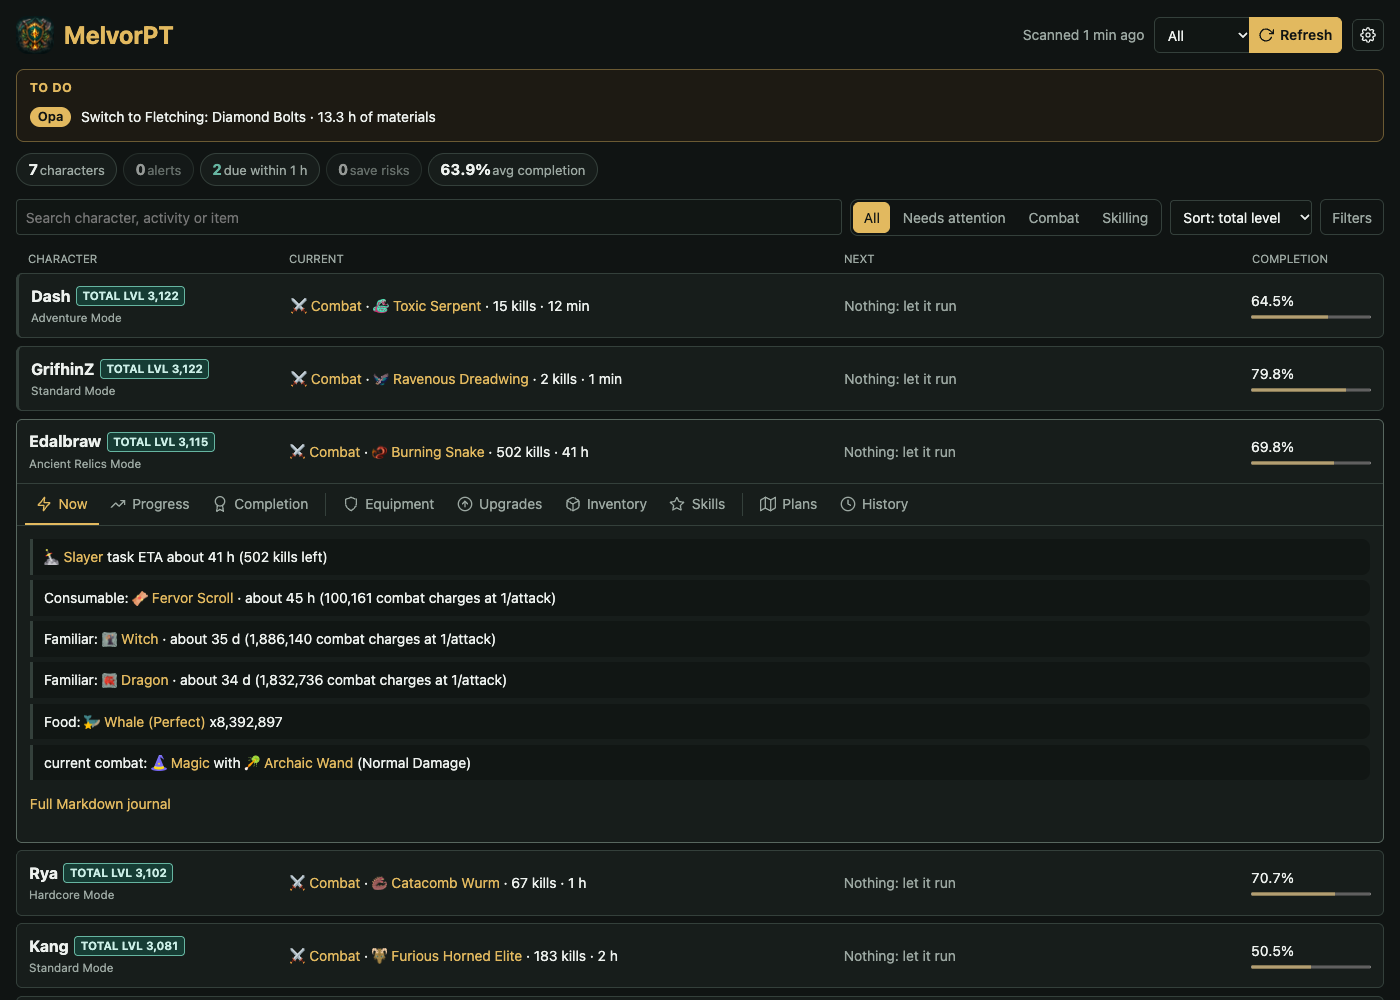
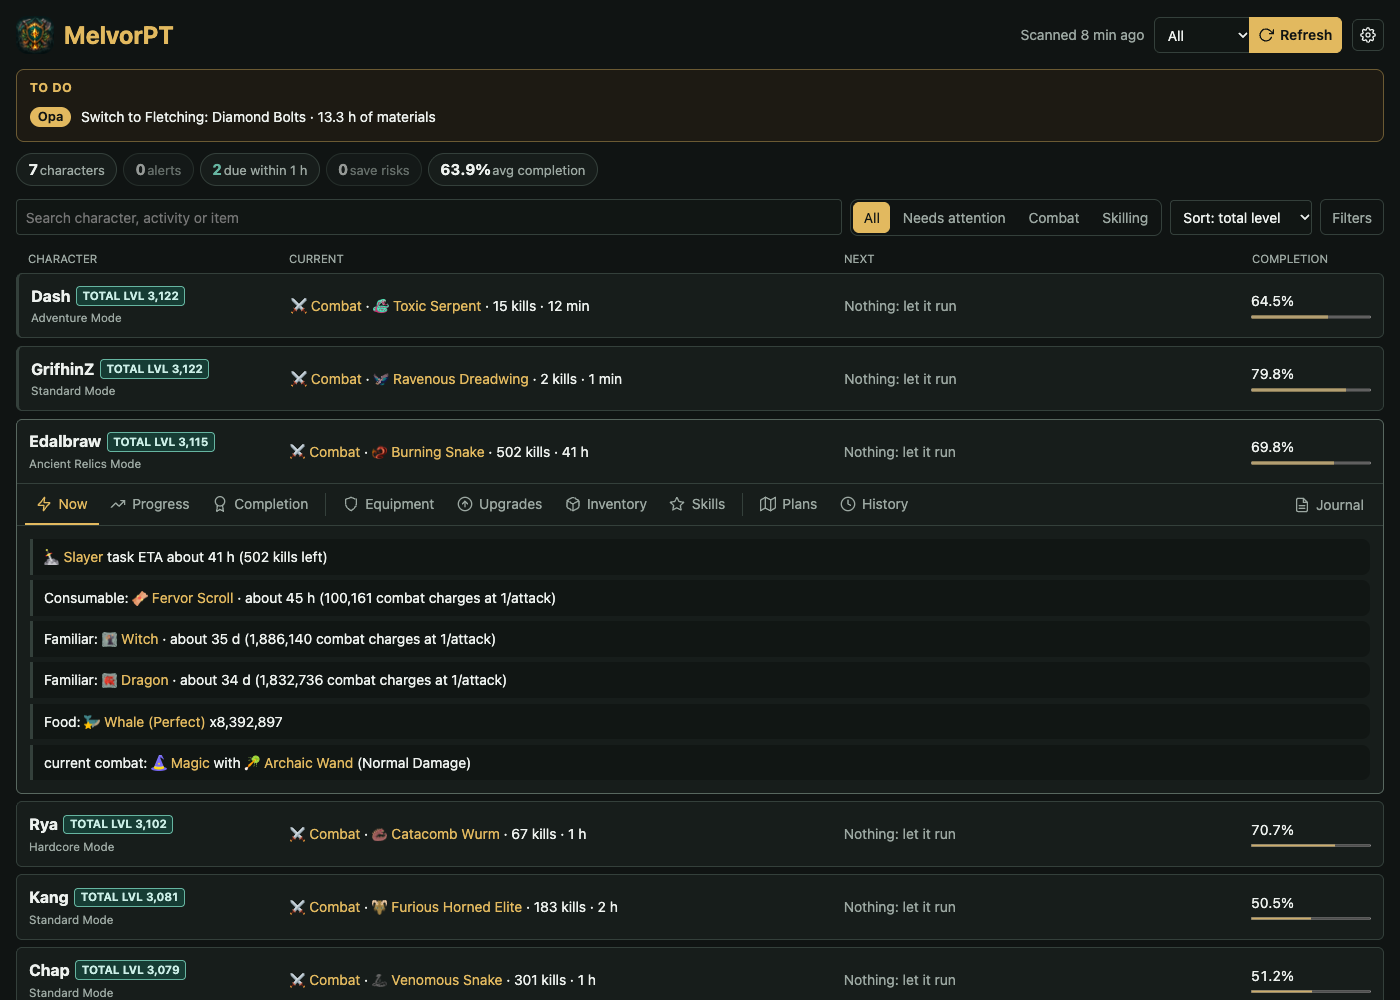
feat(dashboard): Journal link in the tab bar, tighter panel bottom
The Markdown journal opens from a Journal entry at the end of the tab bar (icon only on mobile) instead of a footer link,
which removes the empty band under every panel. Mobile cards no longer clamp the Current text. README screenshot refreshed.

Changed region(s): [[0.0, 0.775, 0.9829, 1.0], [0.9214, 0.496, 0.9829, 0.527], [0.7371, 0.031, 0.7679, 0.062]]

diff --git a/melvor-report.js b/melvor-report.js
@@ -1911,7 +1911,7 @@ button:focus-visible, input:focus-visible, select:focus-visible, summary:focus-v
 .badge.info, .badge.ok { color: #ccefe7; border-color: var(--teal); background: #163c34; }
 .priority-critical { border-left: 3px solid var(--danger); }
 .priority-high { border-left: 3px solid var(--line); }
-.character-body { border-top: 1px solid var(--line); padding: .7rem .8rem .85rem; }
+.character-body { border-top: 1px solid var(--line); padding: .7rem .8rem .8rem; }
 .tabs { display: flex; gap: .35rem; overflow-x: auto; margin-bottom: .7rem; }
 .tabs button { width: auto; padding: .35rem .65rem; white-space: nowrap; }
 .tabs button[aria-selected="true"] { color: #101413; border-color: var(--accent); background: var(--accent); }
@@ -1919,6 +1919,8 @@ button:focus-visible, input:focus-visible, select:focus-visible, summary:focus-v
 .tab-switch button { width: auto; flex: 0 0 auto; display: flex; align-items: center; gap: .4rem; padding: .6rem .7rem; border: 0; border-bottom: 2px solid transparent; border-radius: 0; background: transparent; color: var(--muted); }
 .tab-switch button:hover { color: var(--ink); border-color: transparent; }
 .tab-switch button[aria-selected="true"] { color: var(--accent); border-bottom-color: var(--accent); }
+.tab-switch .tab-link { margin-left: auto; flex: 0 0 auto; display: flex; align-items: center; gap: .4rem; padding: .6rem .7rem; color: var(--muted); }
+.tab-switch .tab-link:hover { color: var(--accent); text-decoration: none; }
 .tab-switch .tab-sep { flex: 0 0 1px; margin: .55rem .35rem; background: var(--line); }
 .tab-switch svg { width: 16px; height: 16px; flex: none; fill: none; stroke: currentColor; stroke-width: 2; stroke-linecap: round; stroke-linejoin: round; }
 .insight-list { display: grid; gap: .35rem; }
@@ -2011,7 +2013,7 @@ a:hover { text-decoration: underline; }
   .tab-switch .tab-sep { margin: .55rem .15rem; }
   .identity { grid-column: 1 / -1; }
   .cell-label { display: block; color: var(--muted); font-size: .68rem; text-transform: uppercase; }
-  .cell-value { white-space: normal; overflow-wrap: anywhere; }
+  .cell-value { white-space: normal; overflow-wrap: anywhere; -webkit-line-clamp: unset; }
   .panel-grid, .equipment-grid { grid-template-columns: minmax(0, 1fr); }
 }
 </style>
@@ -2417,7 +2419,10 @@ function render() {
       content.hidden = index !== 0; tabs.append(btn); body.append(content);
     }
     body.prepend(tabs);
-    const footer = el('p', 'muted'); const link = el('a', '', 'Full Markdown journal'); link.href = encodeURIComponent(name) + '.md'; footer.append(link); body.append(footer);
+    // the raw Markdown journal sits at the end of the tab bar instead of a footer link
+    const journal = el('a', 'tab-link'); journal.href = encodeURIComponent(name) + '.md'; journal.target = '_blank'; journal.rel = 'noopener'; journal.title = 'Full Markdown journal';
+    journal.innerHTML = '<svg viewBox="0 0 24 24" aria-hidden="true"><path d="M14 2H6a2 2 0 0 0-2 2v16a2 2 0 0 0 2 2h12a2 2 0 0 0 2-2V8z"/><polyline points="14 2 14 8 20 8"/><line x1="16" y1="13" x2="8" y2="13"/><line x1="16" y1="17" x2="8" y2="17"/></svg>';
+    journal.append(el('span', 'tab-label', 'Journal')); tabs.append(journal);
     details.append(body);
     cards.append(details);
   }
